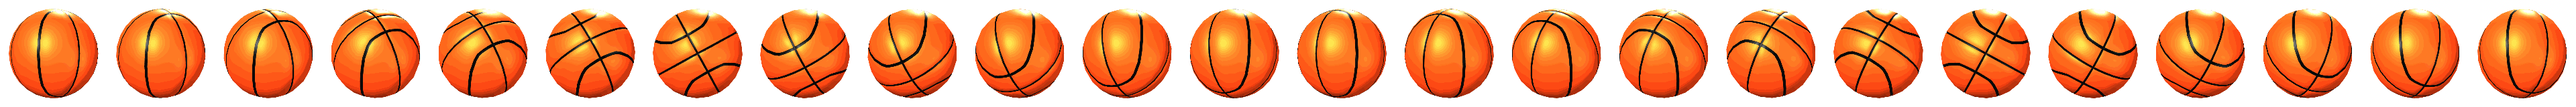
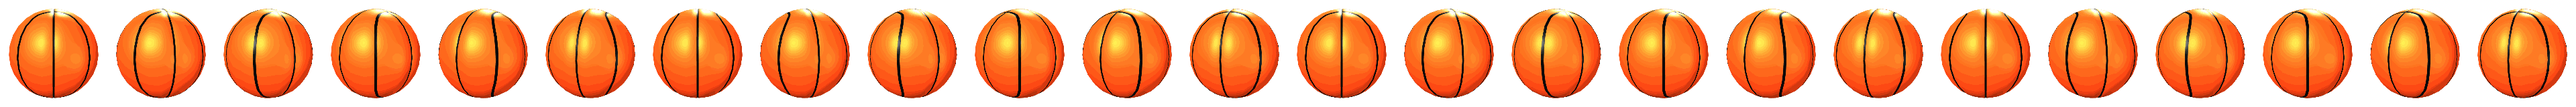
v0.31 — entry ball: vertical-axis spin (like on a fingertip, no finger)
Not a horizontal roll (over the top) and not an in-plane pinwheel (from above):
a VERTICAL-axis spin where the seams sweep sideways — how a ball looks spinning
on a fingertip. Re-baked the 24-frame sprite strip about the Y axis with a slight
forward tilt for dimension; fixed scene lights keep the highlight put. Same
translate-the-strip steps(24) animation, asset swapped.

Changed region(s): [[0.0, 0.0938, 1.0, 0.9062]]

diff --git a/docs/play/index.html b/docs/play/index.html
@@ -141,10 +141,11 @@
   #ldMain.hide{opacity:0}
   #ldSpinWrap{position:relative;width:190px;height:190px;
     filter:drop-shadow(0 16px 22px rgba(0,0,0,.55))}
-  /* The ball ROLLS around a horizontal axis — a real 3D tumble pre-rendered as a
-     24-frame sprite strip (3840x160). Lights were fixed in the render, so the
-     highlight stays put while the seams roll over the top. Shared .spinball
-     component (also used on the Brains x Buckets screen). */
+  /* The ball SPINS ON A VERTICAL AXIS — like a ball spinning on a fingertip
+     (no finger). Pre-rendered as a 24-frame sprite strip (3840x160) with a slight
+     forward tilt for 3D dimension; lights were fixed in the render so the highlight
+     stays put while the seams sweep sideways. Shared .spinball component (also
+     used on the Brains x Buckets screen). */
   .spinball{position:relative;overflow:hidden;border-radius:50%}
   .spinball .orb{position:absolute;left:0;top:0;height:100%;width:2400%;max-width:none;
     animation:ballroll 1.1s steps(24) infinite;will-change:transform}
@@ -682,7 +683,7 @@
     <button class="mbtn locked"><span class="idx">04</span>Packs &amp; My Squad<span class="soon">Coming soon</span></button>
     <button class="mbtn" id="btnOnline"><span class="idx">05</span>Online · Friend Codes<span class="soon" style="color:#6fd0c3">NEW · alpha</span></button>
   </div>
-  <div class="proto">v0.30 · rolling ball</div>
+  <div class="proto">v0.31 · fingertip spin</div>
 </div>
 
 <!-- HOW TO -->
